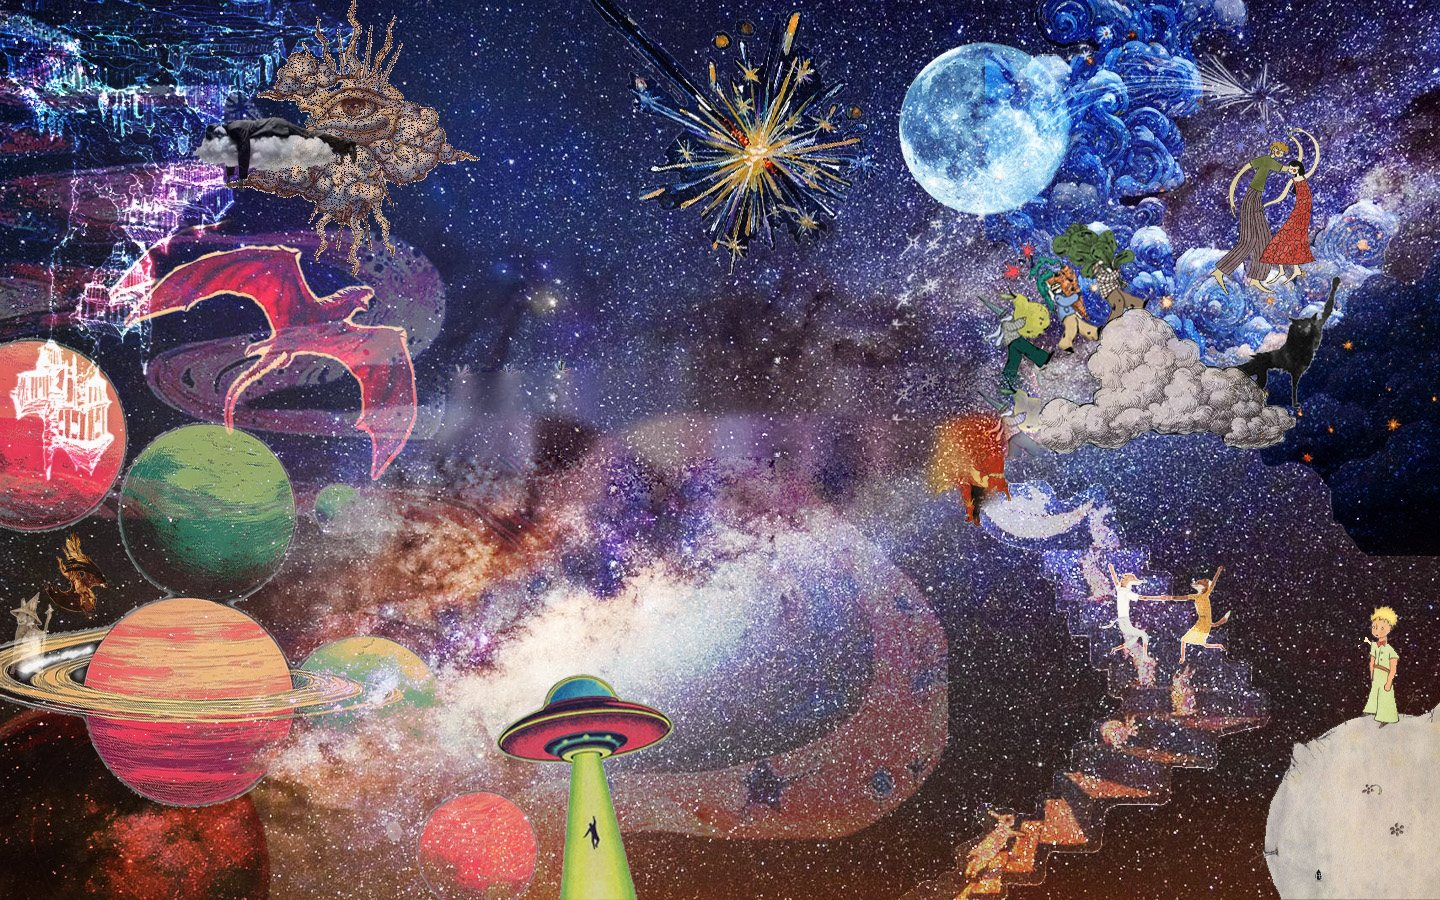
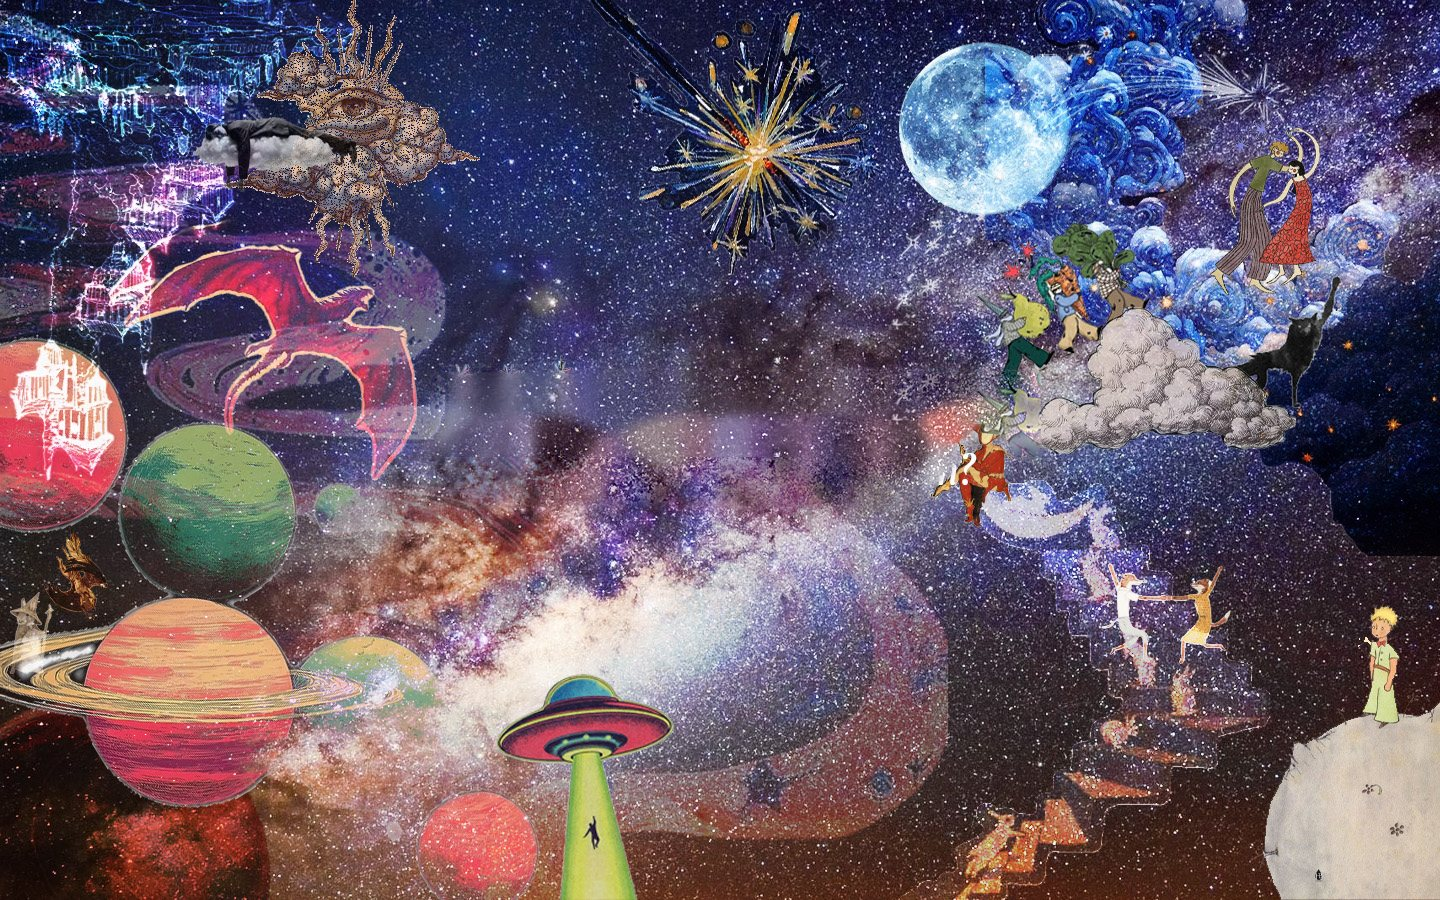
Add files via upload

Changed region(s): [[0.625, 0.4356, 0.7188, 0.56]]

diff --git a/layers-data.js b/layers-data.js
@@ -4,11 +4,12 @@ const layers = [
   {"name": "castle", "image": "layer-castle.png", "x": 1, "y": 0, "w": 751, "h": 485, "hit": "M604,0L604,6L619,9L756,9L756,0Z M365,13L346,9L336,4L335,0L0,0L0,106L11,110L0,113L0,157L10,157L22,143L25,143L30,150L56,154L59,158L56,180L57,206L50,233L39,241L35,250L37,325L26,343L25,354L16,361L3,364L0,368L0,396L5,430L26,431L28,468L32,484L37,489L58,489L65,478L80,484L101,484L105,480L112,463L126,446L126,430L121,424L121,378L112,367L112,354L128,354L128,378L132,382L148,384L158,380L167,334L166,264L180,257L180,251L186,241L212,243L213,239L226,236L233,224L246,213L248,193L244,179L237,173L235,163L242,155L243,149L237,112L241,107L263,109L289,102L313,86L347,86L365,79L371,70L371,20Z"},
   {"name": "planets", "image": "layer-planets.png", "x": -63, "y": 338, "w": 603, "h": 575, "hit": "M386,815L381,821L382,836L386,843L404,843L407,837L407,823L403,817Z M520,795L494,783L466,783L441,792L425,804L412,835L412,863L419,883L431,899L525,899L531,894L541,873L544,857L543,835L534,811Z M317,484L309,499L309,518L317,534L330,543L354,543L363,540L371,530L373,504L362,485L350,478L330,478Z M0,338L0,532L21,537L63,535L78,530L100,517L114,501L114,528L122,555L135,576L155,593L132,601L111,617L99,622L50,627L0,638L0,703L28,712L79,721L89,748L103,771L136,799L167,809L205,810L242,802L260,791L283,767L313,799L346,813L395,812L435,787L444,776L453,756L456,705L447,677L425,649L408,637L392,631L355,628L319,638L295,656L277,628L262,613L249,605L277,584L290,567L299,546L303,524L302,496L295,471L281,448L260,429L245,423L223,418L197,417L178,420L156,429L135,450L133,417L128,397L113,369L100,356L80,343L56,335L22,333Z"},
   {"name": "eye", "image": "layer-eye.png", "x": 236, "y": 0, "w": 232, "h": 267, "hit": "M347,0L344,38L335,39L333,46L328,40L327,28L316,27L315,50L303,51L303,59L294,60L288,71L281,76L278,91L263,97L263,109L295,112L299,120L305,123L305,129L296,139L295,146L283,156L269,158L251,174L231,179L231,189L258,191L277,195L286,200L303,198L311,203L310,220L316,221L318,234L314,245L315,258L326,258L327,251L333,246L343,247L344,256L348,260L348,271L359,271L364,263L364,248L374,247L376,239L384,253L395,251L395,235L390,231L389,211L395,210L392,191L422,183L434,169L471,166L472,155L445,143L435,124L434,114L426,109L418,109L415,105L405,104L403,98L391,88L402,64L402,51L393,50L393,44L397,39L397,27L386,27L379,35L379,48L376,53L375,35L365,35L360,28L360,0Z"},
+  {"name": "sleeper", "plain": true, "image": "layer-sleeper.png", "x": 193, "y": 115, "w": 167, "h": 72, "hit": "M190,147L192,167L204,174L220,174L225,189L236,189L246,185L250,168L279,173L300,173L322,169L334,160L356,163L362,156L359,137L260,112L229,112L212,116L202,123Z"},
   {"name": "dragon", "image": "cut-dragon.png", "x": 95, "y": 247, "w": 322, "h": 232, "hit": "M90,300L90,318L119,315L122,328L135,328L139,323L169,314L190,313L202,304L221,298L238,298L250,305L261,317L266,330L253,340L231,343L231,355L249,362L227,373L220,392L220,401L215,407L215,418L223,433L235,433L239,428L259,422L257,409L239,408L245,394L263,396L266,393L266,383L263,379L268,374L286,373L295,365L319,364L322,360L334,364L354,387L357,405L351,417L351,431L366,441L366,479L369,483L381,483L406,454L419,427L421,390L410,331L395,333L389,323L364,322L357,317L372,313L376,301L374,285L332,288L318,292L305,268L300,247L285,242L202,249L165,270L163,299Z", "world": "Fantasy", "tag": [255, 228], "tilt": -4},
   {"name": "star", "image": "layer-star.png", "x": 566, "y": -28, "w": 318, "h": 304, "hit": "M583,0L588,13L601,28L614,37L647,70L642,71L637,67L624,68L621,92L627,101L628,112L644,121L661,123L674,130L659,147L659,158L650,159L641,165L641,177L649,180L635,184L633,204L641,208L651,208L652,212L659,216L689,216L694,213L699,239L707,248L707,254L720,255L725,259L726,280L739,279L742,266L751,265L755,261L756,247L766,257L780,256L782,236L793,251L803,251L807,246L810,254L822,255L826,241L832,239L832,226L841,223L842,209L850,208L852,195L859,190L873,188L874,184L882,180L888,180L886,156L882,154L880,141L868,140L874,135L874,118L868,116L868,105L860,99L846,98L850,94L851,73L837,73L830,78L828,72L832,68L832,57L823,57L818,46L804,38L808,23L806,4L771,9L759,52L755,50L753,43L758,42L761,37L761,21L755,15L735,15L731,18L730,27L712,27L707,34L707,43L699,44L702,74L698,75L696,70L655,34L624,0Z"},
   {"name": "nebula", "image": "layer-nebula.png", "x": 985, "y": -46, "w": 471, "h": 603, "hit": "M980,40L980,248L999,248L1009,257L1023,262L1025,276L1036,301L1042,305L1057,305L1067,322L1088,336L1115,338L1137,332L1147,349L1166,356L1177,366L1190,365L1207,377L1219,377L1227,369L1249,374L1235,399L1235,425L1242,432L1258,470L1280,472L1295,469L1309,477L1324,494L1327,526L1338,533L1353,555L1361,561L1439,561L1439,245L1429,249L1421,259L1416,272L1408,278L1388,269L1389,257L1403,237L1404,227L1409,220L1409,207L1389,206L1376,194L1357,194L1343,199L1327,209L1322,219L1309,228L1287,269L1281,264L1252,264L1241,246L1186,241L1178,246L1175,241L1175,229L1169,223L1172,214L1171,199L1184,194L1191,186L1191,172L1186,163L1190,155L1190,137L1184,126L1203,117L1207,108L1207,75L1198,47L1209,36L1215,37L1221,43L1242,41L1252,25L1252,2L1033,0L1029,7L1029,23L1032,35L1041,49L1028,51L1019,59L990,40Z"},
   {"name": "moon", "image": "layer-moon.png", "x": 899, "y": 42, "w": 171, "h": 172, "hit": "M956,40L942,46L941,50L934,50L923,62L916,65L900,90L894,115L894,140L899,162L916,190L942,210L969,218L996,218L1021,212L1048,194L1068,163L1073,145L1074,115L1066,86L1044,57L1023,44L995,37Z"},
-  {"name": "climbers", "image": "layer-climbers.png", "x": 994, "y": 223, "w": 348, "h": 226, "hit": "M991,305L998,384L1005,388L1031,391L1028,415L1032,438L1067,448L1163,451L1288,438L1299,430L1301,417L1298,409L1305,404L1344,290L1344,276L1342,272L1330,272L1319,277L1304,305L1285,311L1257,340L1236,352L1224,354L1196,344L1175,328L1140,293L1118,235L1107,223L1070,220L1052,226L1049,233L1025,254L1005,288Z"},
+  {"name": "climbers", "plain": true, "image": "layer-climbers.png", "x": 998, "y": 224, "w": 343, "h": 223, "hit": "M995,295L998,379L1012,389L1035,397L1032,405L1035,438L1070,446L1170,449L1287,438L1299,425L1298,410L1305,407L1309,366L1331,332L1335,304L1343,288L1343,277L1339,274L1327,274L1317,283L1310,303L1282,317L1259,340L1240,353L1221,351L1168,322L1152,305L1143,305L1119,275L1122,251L1117,236L1111,228L1096,224L1063,222L1050,233L1045,253L1028,260L1022,289L1004,289Z"},
   {"name": "couple", "image": "layer-couple.png", "x": 1209, "y": 116, "w": 112, "h": 180, "hit": "M1304,121L1281,123L1280,134L1274,135L1276,117L1268,117L1265,111L1254,111L1253,115L1248,115L1247,124L1230,130L1227,134L1225,154L1231,154L1232,159L1237,161L1224,178L1222,200L1226,218L1233,223L1231,238L1209,258L1209,264L1204,268L1204,279L1222,300L1233,300L1233,287L1230,281L1240,273L1244,291L1250,291L1259,297L1279,298L1281,290L1288,290L1305,280L1307,270L1320,265L1320,253L1312,235L1317,208L1314,182L1324,165L1325,146L1319,131Z", "world": "Love", "tag": [1265, 95], "tilt": 3},
   {"name": "jester", "image": "layer-jester.png", "x": 930, "y": 428, "w": 82, "h": 99, "hit": "M974,424L974,444L970,445L968,439L955,439L955,460L950,473L942,474L926,489L926,501L939,502L947,495L954,494L961,511L959,525L968,526L973,531L985,531L984,514L993,496L999,496L1003,505L1015,505L1015,492L1008,470L1011,448L1006,441L998,438L998,430L987,432L984,424Z"},
   {"name": "friendship", "image": "cut-friendship.png", "x": 1108, "y": 563, "w": 123, "h": 120, "hit": "M1103,559L1103,572L1112,596L1112,624L1118,638L1107,644L1106,657L1124,658L1133,674L1135,686L1160,685L1159,670L1162,664L1162,653L1155,652L1152,646L1153,631L1148,625L1137,621L1134,616L1135,605L1189,606L1192,616L1176,633L1175,668L1188,666L1191,649L1229,654L1227,640L1213,638L1216,631L1229,627L1235,617L1235,605L1224,605L1217,613L1215,612L1214,598L1227,573L1227,561L1214,561L1207,574L1187,575L1185,589L1148,591L1144,589L1148,586L1148,575L1142,574L1136,568L1120,568L1115,558Z", "world": "Friendship", "tag": [1170, 526], "tilt": -3},

diff --git a/layers.html b/layers.html
@@ -54,6 +54,8 @@
       transform: translate(-4px, -8px) rotate(-1.5deg) scale(1.04);
     }
     .piece.world { cursor: pointer; }
+    /* "plain" pieces blend into the sky until hovered, then become paper */
+    .piece.plain:hover .art image, .piece.plain.active .art image { filter: url(#paper); }
     .piece .tag { opacity: 0; transition: opacity 0.2s; }
     .piece:hover .tag, .piece.active .tag { opacity: 1; }
     .zoomed .piece:not(.active) { pointer-events: none; }
@@ -289,7 +291,7 @@
       .data(layers)
       .enter()
       .append("g")
-      .attr("class", d => d.world ? "piece world" : "piece");
+      .attr("class", d => "piece" + (d.world ? " world" : "") + (d.plain ? " plain" : ""));
 
     pieces.append("path")                       // invisible area that catches the mouse
       .attr("d", d => d.hit)
@@ -301,7 +303,7 @@
       .attr("href", d => d.image)
       .attr("x", d => d.x).attr("y", d => d.y)
       .attr("width", d => d.w).attr("height", d => d.h)
-      .attr("filter", "url(#paper)")
+      .attr("filter", d => d.plain ? null : "url(#paper)")
       .style("pointer-events", "none");
 
     // name tags, only for pieces that open a world
